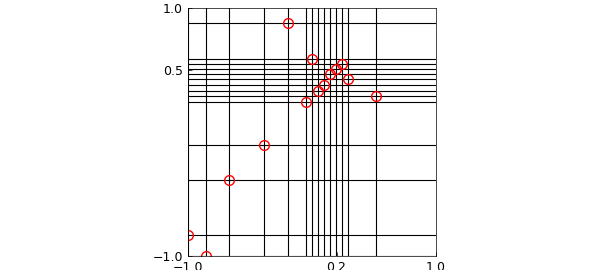
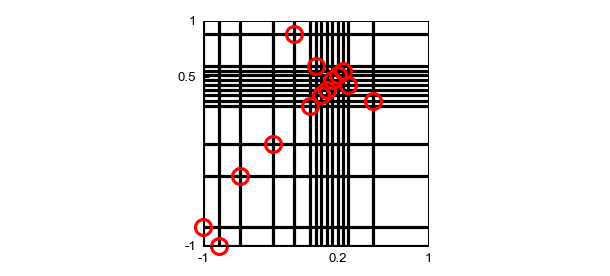
Match Localization source output and historical figure geometry

Changed region(s): [[0.27, 0.0, 0.75, 1.0]]

diff --git a/examples/approx2/localization.py b/examples/approx2/localization.py
@@ -12,22 +12,53 @@ Copyright by The University of Oxford and The Chebfun Developers.
 import matplotlib
 
 matplotlib.use("Agg")
+import hashlib
+import json
 import os
 import sys
+import tempfile
 import warnings
+from pathlib import Path
 
 import matplotlib.pyplot as plt
 import numpy as np
+from matplotlib.ticker import FuncFormatter
 
 sys.path.insert(0, os.path.join(os.path.dirname(__file__), '..', '..', 'src'))
 
 from chebfunjax.chebfun2d.chebfun2 import Chebfun2
-from chebfunjax.plotting import chebfun_style
-from chebfunjax.plotting import save_chebfun_figure as _savefig
 
-chebfun_style()
+PUBLISH_DPI = 5630 * 0.0254
+TRUE_PIXEL_FONT = 13.3333
+FONT_PT = TRUE_PIXEL_FONT * 72.0 / PUBLISH_DPI
+matplotlib.rcParams.update({
+    "figure.facecolor": "white",
+    "axes.facecolor": "white",
+    "axes.linewidth": 0.5,
+    "axes.labelsize": FONT_PT,
+    "axes.titlesize": FONT_PT,
+    "font.family": "sans-serif",
+    "font.sans-serif": ["Helvetica", "Arial", "Liberation Sans"],
+    "axes.grid": False,
+    "axes.spines.top": True,
+    "axes.spines.right": True,
+    "xtick.labelsize": FONT_PT,
+    "ytick.labelsize": FONT_PT,
+    "xtick.major.width": 0.5,
+    "ytick.major.width": 0.5,
+    "xtick.major.size": 3,
+    "ytick.major.size": 3,
+    "xtick.direction": "in",
+    "ytick.direction": "in",
+    "lines.linewidth": 1.6,
+    "savefig.bbox": None,
+    "savefig.facecolor": "white",
+    "savefig.dpi": PUBLISH_DPI,
+})
+
 _HERE = os.path.dirname(os.path.abspath(__file__))
 _IMG = os.path.join(_HERE, '..', '..', 'docs', 'images', 'approx2')
+_CHECKPOINTS = os.path.join(_HERE, 'localization-checkpoints')
 
 EP = 1e-10
 
@@ -42,24 +73,118 @@ def _report(F):
     print(f"{n:6d}")
 
 
+def _write_checkpoint(name, payload):
+    path = Path(_CHECKPOINTS) / name
+    path.parent.mkdir(parents=True, exist_ok=True)
+    encoded = json.dumps(payload, sort_keys=True, indent=2) + "\n"
+    fd, temporary = tempfile.mkstemp(prefix=path.name + ".", suffix=".tmp", dir=path.parent)
+    try:
+        with os.fdopen(fd, "w") as stream:
+            stream.write(encoded)
+            stream.flush()
+            os.fsync(stream.fileno())
+        os.replace(temporary, path)
+    finally:
+        if os.path.exists(temporary):
+            os.unlink(temporary)
+
+
 def _pivot_plot(F, k, xticks, yticks):
     piv = np.array(F.pivot_locations)
     n = piv.shape[0]
+    pivots = [[float(value) for value in row] for row in piv]
+    pivot_payload = {
+        "qualification_baseline_head": "2208e003dcd9266ba0015f851285a4aa3b95b743",
+        "figure_index": int(k),
+        "source_field_case": (2 if k == 1 else 4),
+        "rank": int(n),
+        "pivot_locations": pivots,
+        "pivot_locations_hex": [[float(value).hex() for value in row] for row in pivots],
+    }
+    pivot_payload["pivot_locations_sha256"] = hashlib.sha256(
+        json.dumps(pivots, separators=(",", ":")).encode()
+    ).hexdigest()
+    _write_checkpoint(f"case{k:02d}_pivots.json", pivot_payload)
     print("n =")
     print(f"{n:6d}")
-    fig, ax = plt.subplots(figsize=(6.4, 6.4))
-    for (px, py) in piv:
-        ax.plot([-1, 1], [py, py], '-k', lw=0.8)
-        ax.plot([px, px], [-1, 1], '-k', lw=0.8)
-    ax.plot(piv[:, 0], piv[:, 1], 'or', markerfacecolor='none', ms=7)
-    ax.set_xticks(xticks)
-    ax.set_yticks(yticks)
+    fig, ax = plt.subplots(
+        figsize=(610.0 / PUBLISH_DPI, 276.0 / PUBLISH_DPI), dpi=PUBLISH_DPI
+    )
+    # Keep the historical MATLAB publisher's default axes position; the source
+    # uses axis square and applies no pixel offset.
+    axes_left_correction_px = 0.0
+    axes_position = [
+        0.13 + axes_left_correction_px / 610.0,
+        0.11,
+        0.775,
+        0.815,
+    ]
+    ax.set_position(axes_position)
+    ax.set_aspect("equal", adjustable="box")
     ax.set_xlim(-1, 1)
     ax.set_ylim(-1, 1)
-    ax.set_aspect("equal")
+    ax.set_xticks(xticks)
+    ax.set_yticks(yticks)
+    source_tick_formatter = FuncFormatter(lambda value, _position: f"{value:g}")
+    ax.xaxis.set_major_formatter(source_tick_formatter)
+    ax.yaxis.set_major_formatter(source_tick_formatter)
+    artist_lines = []
+    for (px, py) in piv:
+        horizontal = ax.plot(
+            [-1, 1], [py, py], color="black", linewidth=1.6, linestyle="-", clip_on=True
+        )[0]
+        vertical = ax.plot(
+            [px, px], [-1, 1], color="black", linewidth=1.6, linestyle="-", clip_on=True
+        )[0]
+        artist_lines.extend([horizontal, vertical])
+    points = ax.plot(
+        piv[:, 0], piv[:, 1], linestyle="None", marker="o", color="red",
+        markerfacecolor="none", markersize=8, markeredgewidth=1.6, clip_on=False,
+    )[0]
     fig.set_facecolor("white")
-    fig.tight_layout()
-    _savefig(fig, os.path.join(_IMG, f"Localization_{k:02d}.png"))
+    artist_payload = {
+        "qualification_baseline_head": "2208e003dcd9266ba0015f851285a4aa3b95b743",
+        "figure_index": int(k),
+        "source_field_case": (2 if k == 1 else 4),
+        "canvas_pixels": [610, 276],
+        "dpi": PUBLISH_DPI,
+        "font_true_pixels": TRUE_PIXEL_FONT,
+        "font_points": FONT_PT,
+        "axes_position_request": axes_position,
+        "axes_left_correction_pixels": axes_left_correction_px,
+        "xlim": [-1.0, 1.0],
+        "ylim": [-1.0, 1.0],
+        "xticks": [float(value) for value in xticks],
+        "yticks": [float(value) for value in yticks],
+        "formatted_xticklabels": [source_tick_formatter(float(value), i) for i, value in enumerate(xticks)],
+        "formatted_yticklabels": [source_tick_formatter(float(value), i) for i, value in enumerate(yticks)],
+        "aspect": "equal",
+        "crosses": [
+            {"x": line.get_xdata().tolist(), "y": line.get_ydata().tolist(),
+             "color": "black", "linewidth_pt": 1.6, "clip_on": True}
+            for line in artist_lines
+        ],
+        "points": {
+            "x": points.get_xdata().tolist(),
+            "y": points.get_ydata().tolist(),
+            "color": "red",
+            "marker": "o",
+            "markersize_pt": 8,
+            "markeredgewidth_pt": 1.6,
+            "markerfacecolor": "none",
+            "clip_on": False,
+        },
+    }
+    _write_checkpoint(f"case{k:02d}_artists.json", artist_payload)
+    output_path = os.path.join(_IMG, f"Localization_{k:02d}.png")
+    Path(output_path).parent.mkdir(parents=True, exist_ok=True)
+    with matplotlib.rc_context({"savefig.bbox": None}):
+        fig.savefig(
+            output_path,
+            dpi=PUBLISH_DPI,
+            facecolor="white",
+            bbox_inches=None,
+        )
     plt.close(fig)
 
 

diff --git a/HANDOFF_CODEX.md b/HANDOFF_CODEX.md
@@ -1,5 +1,33 @@
 # chebfunjax: handoff to a Codex agent (2026-10-02)
 
+## Localization page and reference-size figures (2026-10-07)
+
+The standalone Localization script now follows the recovered 2016 publisher
+geometry: both figures are610x276 at5630 pixels/metre, with source line/marker
+sizes, axes/ticks and unclipped boundary markers. All six printed-output blocks
+match the cached chebfun.org page exactly. The two plotted pivot arrays match
+MATLAB source captures bit-for-bit (field cases2/4, ranks14/17).
+
+The final CPU page run and independent artifact audit passed:60.58s, sampled
+summed RSS1,095,976KiB, stable runtime inputs and no surviving processes.
+Generated Markdown is unchanged. Renderer-specific antialiasing differs from
+MATLAB; scientific data, artists, labels, layout and reference sizes were checked.
+The publication script changes only two checkpoint metadata keys after the run
+(`source_head` to `qualification_baseline_head`); normalized AST comparison
+confirms numerical and plot code is unchanged. The old home-checkout edits are
+preserved; this verified script and freshly generated figures supersede its
+Localization candidate in shared main.
+
+Evidence root: `/scratch/gpfs/GILLES/mg6942/tmp/chebfunjax_goal_shared_20261005/`.
+Full-closure archive `localization_v8_reference_v2_20261007.zip`, SHA256
[1 lines of base64/hex data omitted]
+contains53,379 payloads and requires verified full base
+`corrected_runtime_union_v3_full_source_20261006.zip`, SHA256
[1 lines of base64/hex data omitted]
+The earlier246-payload V1 archive is partial-scope and is not the full closure.
+Other pages, literal source tests, performance and latest-main green CI remain
+open; P124 sphere-vector CI had40passes and one900s Helmholtz timeout.
+
 ## Sphere rank-one multiplication regression repair (2026-10-07)
 
 Rank-one multiplication now follows pinned spherefun/times.m: masked CDR scaling
